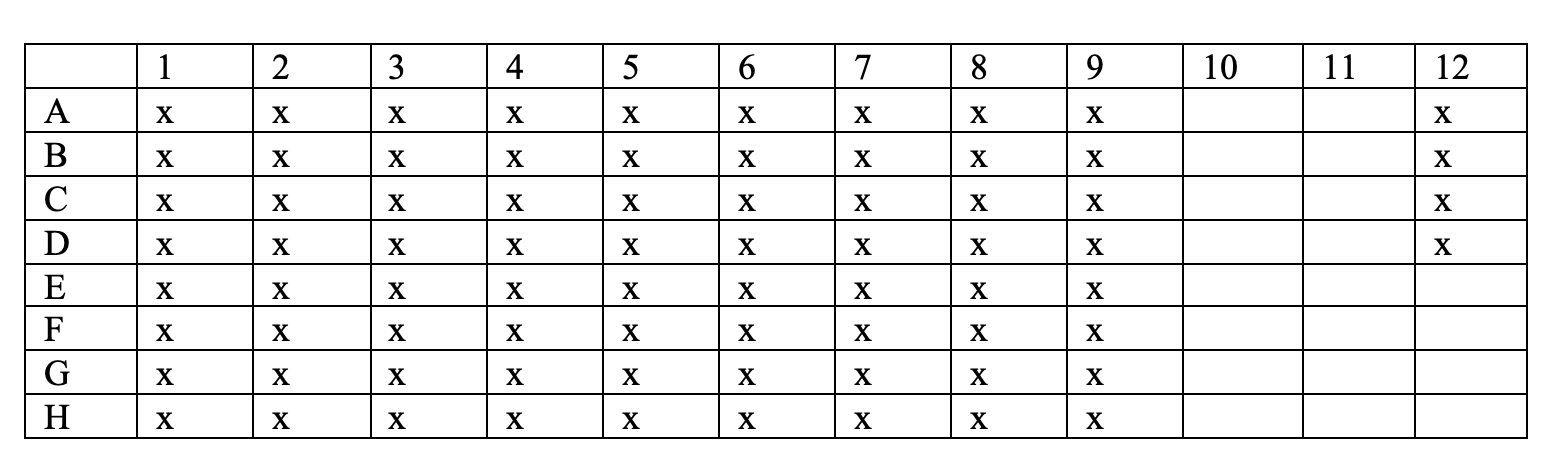
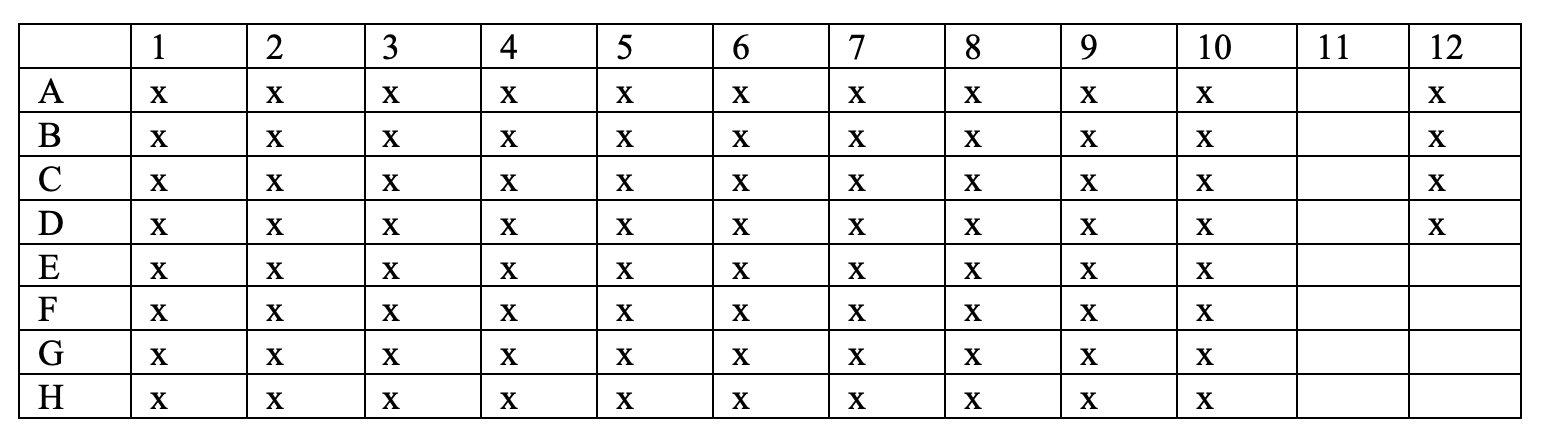
updated readme files

Changed region(s): [[0.0, 0.0298, 0.9961, 0.9839]]

diff --git a/README.FACS.md b/README.FACS.md
@@ -8,7 +8,7 @@
     });
   });
 </script>
-# Single cell TCR data analysis
+# Paired TCR with FACS index data
 
 Please contact: Nicole.Mifsud@monash.edu or Kerry.Mullan@monash.edu to report errors.
 
@@ -16,17 +16,18 @@ Please contact: Nicole.Mifsud@monash.edu or Kerry.Mullan@monash.edu to report er
 
 The first tab is used to merge the paired TCR file with the .fcs FACS file. 
 
-The user needs to type into the "Group of data" and "Individual of data" the group and individual. There is also the option to specify if multiple plates were used. 
+The user needs to type into the "Group of data" (e.g. other) and "Individual of data" (e.g. 780) the group and individual. There is also the option to specify if multiple plates were used. However, if there is only one group and individual, only the header will show (*i.e.* group and Indiv), but the data will pair correctly (see test-data example)
 
 The merged file is based on a 80 well sorted plate (A1-H10). Columns 11 and 12 are not included, which is based on the experimental setup. 
-
-<img src="www/96well.plate.png" width="800">
+<img src="www/96well.plate.png" width="400">
 
 <img src="www/pairing.fcs.png" width="800">
 
+<a href="#Paired TCR with FACS index data">Go to top</a><br>
+
 ### Data cleaning steps
 
-upload the merged index pairied TCR data file. 
+upload the merged index paired TCR data file. 
 
 Things to do before uploading the file 
 - rename headers as desired (i.e. CD69 APC)
@@ -39,25 +40,26 @@ Creating the files
 - Select the # of clones cut-off i.e. >1 clone or 0 for all clones
 - Download the file
 
-Note: I would recommend leaving the clonal filter at 1. I would then copy these columns in excel followed by removing unwanted clones rather than having to redo this step. 
+Note: I would recommend leaving the clonal filter at 0 or 1. I would then copy these columns in excel followed by removing unwanted clones rather than having to redo this step. 
 
-<img src="www/pie.png" width="800">
+<img src="www/cleaning.FCS.data.png" width="800">
+
+<a href="#Paired TCR with FACS index data">Go to top</a><br>
 
 ### The dot plot of selected clones
 
-Upload the colour file
-
-<img src="IMAGES/Upload.colour.png" width="400">
-
-Select the following:
-- x-axis column
-- y-axis column
-- adding in a histogram
+User defined variables include:
+- x-axis 
+- y-axis 
+- Adding in a histogram
 - Column to colour by 
-- size, location and number of columns for the legend
+- Size, location and number of columns for the legend
     + If using histograms, place legend below or to the left
 - Type of colouring scheme: Default, random or grey
-    + all colours can be altered
-- download as either a .png or PDF
+    + All colours can be altered
+- x- and y-axis cut-off lines (default = 1000 or 10^3); default colour is grey
+- Download as either a .png or PDF
 
-<img src="IMAGES/Complex.dotplot.png" width="1140">
+<img src="www/Complex.dotplot.png" width="800">
+
+<a href="#Paired TCR with FACS index data">Go to top</a><br>

diff --git a/README.scTCR.md b/README.scTCR.md
@@ -166,11 +166,11 @@ This section can align the sequences using 'muscle' package.
 
 The top panel showcases the Inverse Simpson Diversity index (SDI) table. This table can be downloaded, which may be needed with more complex designs (ANOVA).
 
-<img src="www/Index.table.png" width="1140">
+<img src="www/Index.table.png" width="800">
 
 The bottom panel showcases the graphical outputs and simple t-test. 
 
-<img src="www/iSDI.graph.png" width="1140">
+<img src="www/iSDI.graph.png" width="800">
 
 <a href="#Diversity and chain interrogation">Diversity and chain interrogation</a><br>
 <a href="#TCR repertoire analysis">Go to top</a><br>
@@ -185,7 +185,7 @@ The Heatmap plot can display data of a specific group/individual (Select specifi
 
 If 'Select specific groups=no', the user can showcase the multiple individuals on either the x or y axis (see image below)
 
-<img src="www/heatmap.png" width="1140">
+<img src="www/heatmap.png" width="800">
 
 <a href="#Group overlap analysis">TCR analysis section</a><br>
 <a href="#TCR repertoire analysis">Go to top</a><br>
@@ -194,7 +194,7 @@ If 'Select specific groups=no', the user can showcase the multiple individuals o
 
 The upset plot can highlight if the specific clonotypes overlap.  
 
-<img src="www/upset.png" width="1140">
+<img src="www/upset.png" width="800">
 
 <a href="#Group overlap analysis">TCR analysis section</a><br>
 <a href="#TCR repertoire analysis">Go to top</a><br>

diff --git a/READMEQC.md b/READMEQC.md
@@ -5,6 +5,3 @@
 ## Step 3 upload vquest.xls to app: (0:55)
 ## Step 4 Check chromatograms: (1:42)
 ## Step 5 Merge paired chain file: (6:06)
-
-
-<img src="IMAGES/Slide2.png" width="1140">
